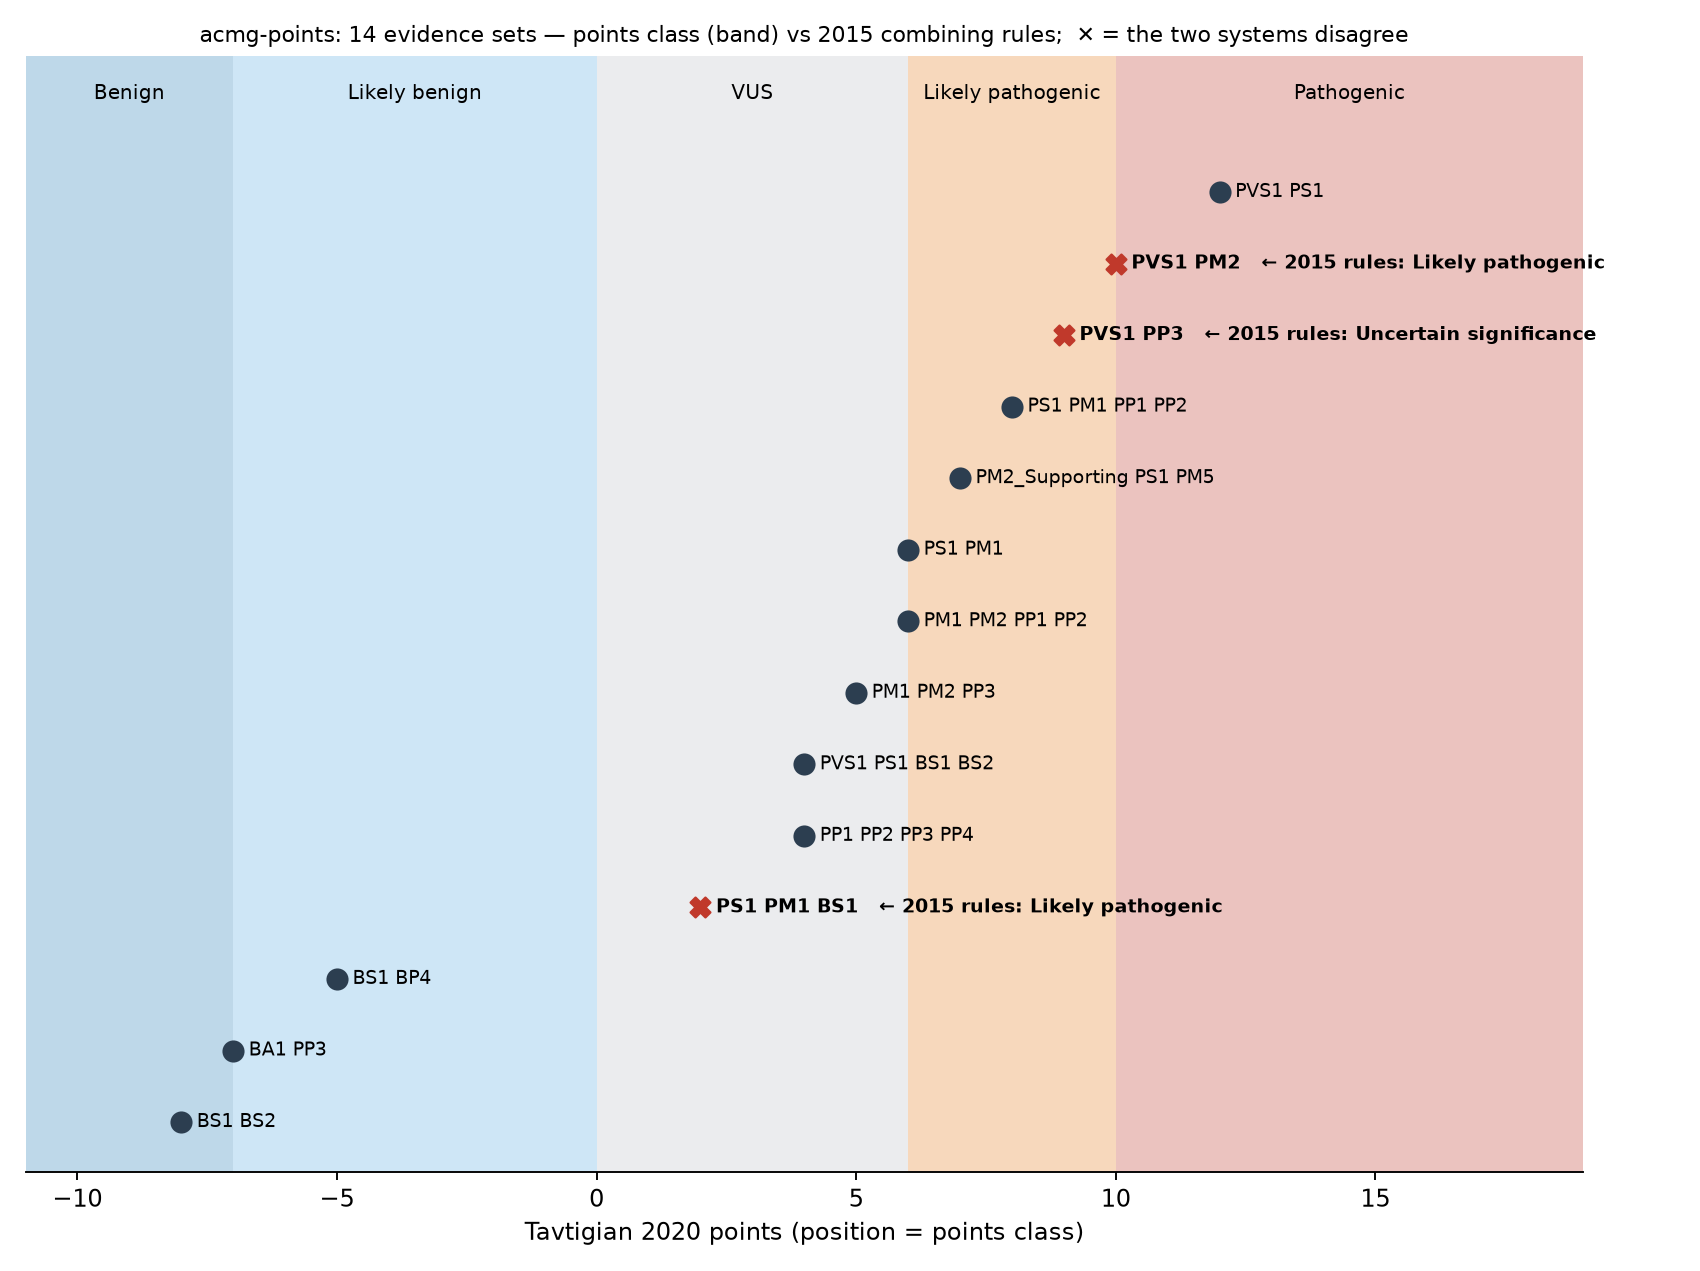
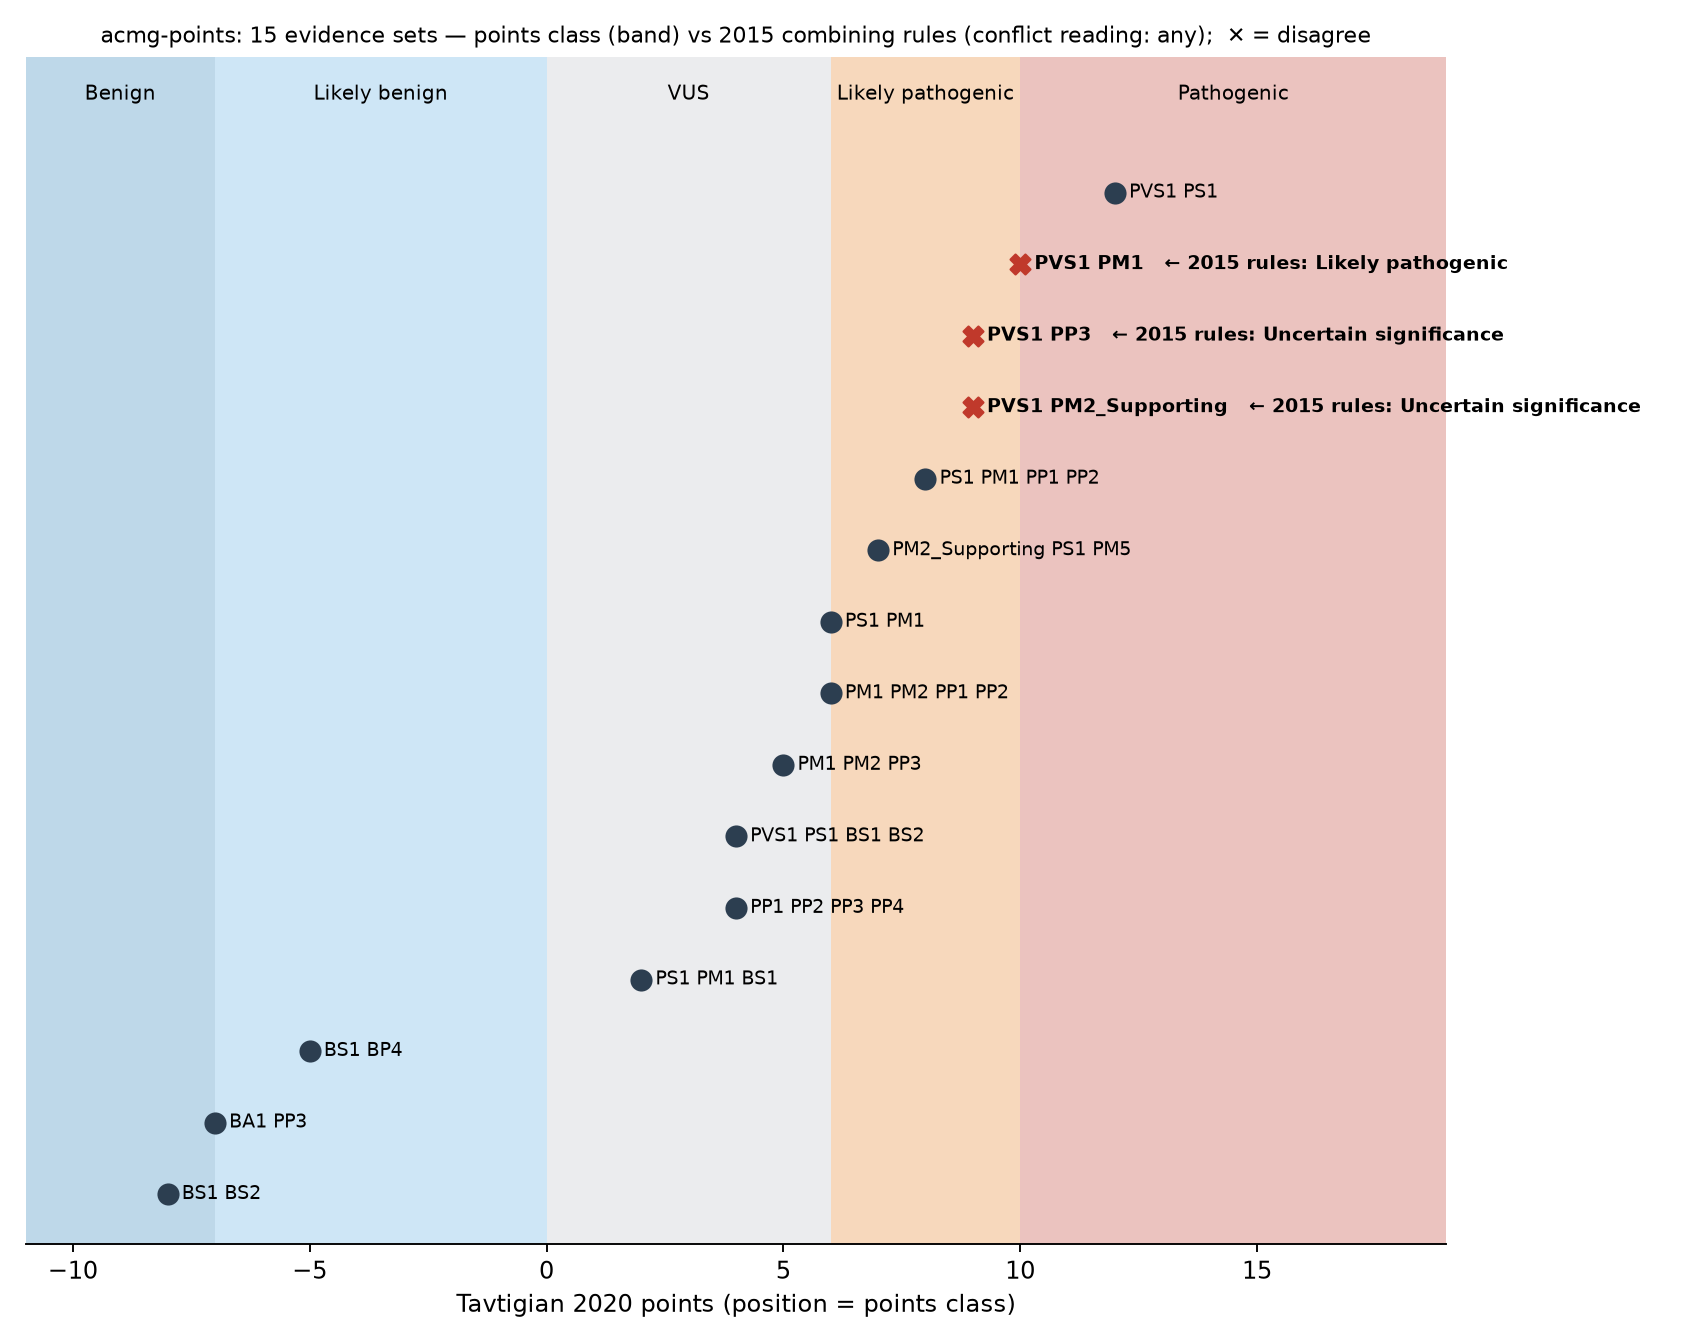
0.1.2: explicit 2015 conflict-rule reading (any | both-met), BA1 stand-alone, Table 5 parameterised tests, PVS1+PM1 as lead example, PM2 at SVI strength; drop .coverage

diff --git a/tests/test_schemes.py b/tests/test_schemes.py
@@ -1,26 +1,54 @@
-from acmg_points.core import classify
+import pytest
+from acmg_points.core import classify, band
+from acmg_points.schemes import rules_2015
 
-def cls(*t): return classify(list(t))
+def cls(*t, conflict="any"): return classify(list(t), conflict)
 
-def test_points_table_and_bands():
-    assert cls("PVS1", "PS1").total == 12 and cls("PVS1", "PS1").points_class == "Pathogenic"
-    assert cls("PM1", "PM2", "PP3").total == 5 and cls("PM1", "PM2", "PP3").points_class == "Uncertain significance"
-    assert cls("BS1", "BP4").total == -5 and cls("BS1", "BP4").points_class == "Likely benign"
-    assert cls("BA1").points_class == "Benign"
+# ---- Richards 2015 Table 5, one case per row (criteria at default strength) ----
+TABLE5 = [
+    (("PVS1", "PS1"), "Pathogenic"), (("PVS1", "PM1", "PM2"), "Pathogenic"), (("PVS1", "PM1", "PP1"), "Pathogenic"), (("PVS1", "PP1", "PP2"), "Pathogenic"),
+    (("PS1", "PS2"), "Pathogenic"), (("PS1", "PM1", "PM2", "PM3"), "Pathogenic"), (("PS1", "PM1", "PM2", "PP1", "PP2"), "Pathogenic"), (("PS1", "PM1", "PP1", "PP2", "PP3", "PP4"), "Pathogenic"),
+    (("PVS1", "PM1"), "Likely pathogenic"), (("PS1", "PM1"), "Likely pathogenic"), (("PS1", "PM1", "PM2"), "Likely pathogenic"), (("PS1", "PP1", "PP2"), "Likely pathogenic"),
+    (("PM1", "PM2", "PM3"), "Likely pathogenic"), (("PM1", "PM2", "PP1", "PP2"), "Likely pathogenic"), (("PM1", "PP1", "PP2", "PP3", "PP4"), "Likely pathogenic"),
+    (("BA1",), "Benign"), (("BS1", "BS2"), "Benign"), (("BS1", "BP1"), "Likely benign"), (("BP1", "BP2"), "Likely benign"),
+    (("PP1",), "Uncertain significance"), (("PM1",), "Uncertain significance"), (("PVS1",), "Uncertain significance"), (("BS1",), "Uncertain significance"), (("BP1",), "Uncertain significance"),
+    (("PS1", "PP1"), "Uncertain significance"), (("PM1", "PM2"), "Uncertain significance"),
+]
 
-def test_2015_rules_agree_on_classic_cases():
-    assert cls("PVS1", "PS1").rules_class == "Pathogenic"
-    assert cls("PS1", "PM1").rules_class == "Likely pathogenic"
-    assert cls("BS1", "BS2").rules_class == "Benign"
+@pytest.mark.parametrize("criteria,expected", TABLE5, ids=[" ".join(c) for c, _ in TABLE5])
+def test_table5_rows(criteria, expected):
+    assert cls(*criteria).rules_class == expected
 
-def test_known_divergence_pvs1_plus_one_pp():
-    r = cls("PVS1", "PP3")            # 2015: needs ≥2 PP → VUS; points: 8+1=9 → LP
-    assert r.points_class == "Likely pathogenic" and r.rules_class == "Uncertain significance" and not r.agree
+# ---- conflict rule, both readings ----
+@pytest.mark.parametrize("criteria,any_mode,both_met_mode", [
+    (("PS1", "PM1", "BS1"), "Uncertain significance", "Likely pathogenic"),   # P rule met, lone BS1: readings differ
+    (("PVS1", "PS1", "BP4"), "Uncertain significance", "Pathogenic"),
+    (("BS1", "BS2", "PP3"), "Uncertain significance", "Benign"),
+    (("BA1", "PP3"), "Benign", "Benign"),                                                     # BA1 is stand-alone: not overridden by Supporting
+    (("PVS1", "PS1", "BS1", "BS2"), "Uncertain significance", "Uncertain significance"),   # both rules met: VUS either way
+    (("PVS1", "PS1"), "Pathogenic", "Pathogenic"),                                          # no benign evidence: no conflict
+])
+def test_conflict_readings(criteria, any_mode, both_met_mode):
+    assert cls(*criteria).rules_class == any_mode and cls(*criteria, conflict="both-met").rules_class == both_met_mode
+    assert cls(*criteria).to_dict()["rules_2015"]["conflict_mode"] == "any"
 
-def test_modified_strength():
-    r = cls("PM2_Supporting", "PS1", "PM5")
-    assert [a.points for a in r.applied] == [1, 4, 2] and r.total == 7 and r.points_class == "Likely pathogenic"
+def test_conflict_mode_validated():
+    with pytest.raises(ValueError): rules_2015({"PVS": 0, "PS": 0, "PM": 0, "PP": 0, "BA": 0, "BS": 0, "BP": 0}, "nope")
 
-def test_conflict_handling_differs():
-    r = cls("PS1", "PM1", "BS1")     # 2015: LP vs (BS1 alone = nothing) → LP ; points: 4+2-4=2 → VUS
-    assert r.points_class == "Uncertain significance" and r.rules_class == "Likely pathogenic" and not r.agree
+# ---- Tavtigian 2020 bands at every boundary ----
+@pytest.mark.parametrize("total,expected", [(-8, "Benign"), (-7, "Benign"), (-6, "Likely benign"), (-1, "Likely benign"), (0, "Uncertain significance"), (5, "Uncertain significance"), (6, "Likely pathogenic"), (9, "Likely pathogenic"), (10, "Pathogenic"), (12, "Pathogenic")])
+def test_tavtigian_boundaries(total, expected):
+    assert band(total) == expected
+
+def test_points_values_and_modifiers():
+    r = cls("PVS1", "PS1"); assert r.total == 12 and r.points_class == "Pathogenic"
+    r = cls("PM2_Supporting", "PS1", "PM5"); assert [a.points for a in r.applied] == [1, 4, 2] and r.total == 7 and r.points_class == "Likely pathogenic"
+    r = cls("PVS1", "PM2_Supporting"); assert r.total == 9 and r.points_class == "Likely pathogenic" and r.rules_class == "Uncertain significance"   # SVI 2020: PM2 Supporting; 2015 needs ≥2 Supporting
+    assert cls("BA1").total == -8 and cls("BA1").points_class == "Benign"
+    with pytest.raises(ValueError): cls("PVS1", "PVS1")
+
+# ---- the divergences shown in the README ----
+def test_readme_divergences():
+    r = cls("PVS1", "PM1"); assert (r.total, r.points_class, r.rules_class) == (10, "Pathogenic", "Likely pathogenic") and not r.agree
+    r = cls("PVS1", "PP3"); assert (r.total, r.points_class, r.rules_class) == (9, "Likely pathogenic", "Uncertain significance") and not r.agree
+    r = cls("PS1", "PM1", "BS1"); assert (r.total, r.points_class, r.rules_class) == (2, "Uncertain significance", "Uncertain significance") and r.agree

diff --git a/src/acmg_points/schemes.py b/src/acmg_points/schemes.py
@@ -40,9 +40,21 @@ CRITERIA = {
 }
 
 
-def rules_2015(counts: dict[str, int]) -> tuple[str, str]:
+CONFLICT_MODES = ("any", "both-met")
+
+
+def rules_2015(counts: dict[str, int], conflict: str = "any") -> tuple[str, str]:
     """Richards 2015 Table 5. `counts` keys: PVS, PS, PM, PP, BA, BS, BP
-    (criteria counted at their *applied* strength, per ClinGen SVI practice)."""
+    (criteria counted at their *applied* strength, per ClinGen SVI practice).
+
+    `conflict` — how to read Richards 2015's rule that a variant is of uncertain significance when
+    "the criteria for benign and pathogenic are contradictory":
+      "any"      (default) any pathogenic evidence together with any benign evidence → Uncertain significance,
+                 even if only one side reaches a classification on its own;
+      "both-met" only when a pathogenic rule AND a benign rule are both met (the reading some
+                 implementations use).
+    The two readings differ exactly on sets like PS1 + PM1 + BS1; the report says which one was used."""
+    if conflict not in CONFLICT_MODES: raise ValueError(f"conflict must be one of {CONFLICT_MODES}")
     pvs, ps, pm, pp = counts["PVS"], counts["PS"], counts["PM"], counts["PP"]
     ba, bs, bp = counts["BA"], counts["BS"], counts["BP"]
 
@@ -60,8 +72,13 @@ def rules_2015(counts: dict[str, int]) -> tuple[str, str]:
 
     p_side = "Pathogenic" if path else ("Likely pathogenic" if likely_path else None)
     b_side = "Benign" if benign else ("Likely benign" if likely_benign else None)
+    any_p = (pvs + ps + pm + pp) > 0; any_b = (ba + bs + bp) > 0
     if p_side and b_side:
         return "Uncertain significance", f"conflicting: rules give {p_side} and {b_side} → VUS by the 2015 conflict rule"
+    if ba >= 1 and conflict == "any" and not p_side:
+        return "Benign", "BA1 is stand-alone evidence (Richards 2015): Benign regardless of supporting pathogenic evidence"
+    if conflict == "any" and any_p and any_b:
+        return "Uncertain significance", f"pathogenic and benign evidence both applied → VUS (Richards 2015: 'criteria for benign and pathogenic are contradictory'; rule side alone would give {p_side or b_side or 'VUS'})"
     if p_side:
         return p_side, "2015 combining rule met"
     if b_side:

diff --git a/src/acmg_points/cli.py b/src/acmg_points/cli.py
@@ -22,7 +22,7 @@ def render(r) -> str:
 
 
 def cmd_classify(a):
-    r = classify(a.criteria)
+    r = classify(a.criteria, a.conflict)
     print(json.dumps(r.to_dict(), indent=2) if a.json else render(r))
     sys.exit(0)
 
@@ -40,7 +40,7 @@ def cmd_compare(a):
         s = line.split("#", 1)[0].strip()
         if not s:
             continue
-        r = classify(s.split())
+        r = classify(s.split(), a.conflict)
         dis += 0 if r.agree else 1
         rows.append((s, r))
     print("| criteria | points | points class | 2015 class | agree |")
@@ -54,9 +54,9 @@ def main(argv=None):
     p = argparse.ArgumentParser(prog="acmg-points", description="Points-based ACMG/AMP classification next to the 2015 rules.")
     p.add_argument("--version", action="version", version=__version__)
     s = p.add_subparsers(dest="cmd", required=True)
-    c = s.add_parser("classify", help="classify a set of applied criteria"); c.add_argument("criteria", nargs="+"); c.add_argument("--json", action="store_true"); c.set_defaults(fn=cmd_classify)
+    c = s.add_parser("classify", help="classify a set of applied criteria"); c.add_argument("criteria", nargs="+"); c.add_argument("--json", action="store_true"); c.add_argument("--conflict", choices=("any", "both-met"), default="any", help="2015 conflict rule reading (default any: any P + any B evidence → VUS)"); c.set_defaults(fn=cmd_classify)
     t = s.add_parser("table", help="print the points scheme"); t.set_defaults(fn=cmd_table)
-    m = s.add_parser("compare", help="batch: one criteria set per line → table of both schemes"); m.add_argument("--file", required=True); m.set_defaults(fn=cmd_compare)
+    m = s.add_parser("compare", help="batch: one criteria set per line → table of both schemes"); m.add_argument("--file", required=True); m.add_argument("--conflict", choices=("any", "both-met"), default="any"); m.set_defaults(fn=cmd_compare)
     a = p.parse_args(argv)
     try:
         a.fn(a)

diff --git a/src/acmg_points/core.py b/src/acmg_points/core.py
@@ -65,6 +65,7 @@ class Result:
     rules_class: str
     rules_reason: str
     counts: dict[str, int] = field(default_factory=dict)
+    conflict_mode: str = "any"
 
     @property
     def agree(self) -> bool:
@@ -74,12 +75,12 @@ class Result:
         return {
             "applied": [a.__dict__ | {"modified": a.modified} for a in self.applied],
             "points": {"scheme": POINTS["name"], "total": self.total, "class": self.points_class},
-            "rules_2015": {"class": self.rules_class, "reason": self.rules_reason, "counts": self.counts},
+            "rules_2015": {"class": self.rules_class, "reason": self.rules_reason, "counts": self.counts, "conflict_mode": self.conflict_mode},
             "agree": self.agree,
         }
 
 
-def classify(tokens: list[str]) -> Result:
+def classify(tokens: list[str], conflict: str = "any") -> Result:
     items = [parse(t) for t in tokens]
     seen = set()
     for a in items:
@@ -88,5 +89,5 @@ def classify(tokens: list[str]) -> Result:
         seen.add(a.code)
     total = sum(a.points for a in items)
     counts = counts_at_applied_strength(items)
-    rcls, rreason = rules_2015(counts)
-    return Result(items, total, band(total), rcls, rreason, counts)
+    rcls, rreason = rules_2015(counts, conflict)
+    r = Result(items, total, band(total), rcls, rreason, counts); r.conflict_mode = conflict; return r

diff --git a/tests/test_cli.py b/tests/test_cli.py
@@ -19,7 +19,7 @@ def test_classify_text_and_json(capsys):
 
 
 def test_compare_and_table(capsys, tmp_path):
-    f = tmp_path / "c.txt"; f.write_text("# comment\nPVS1 PS1\n\nPS1 PM1 BS1  # conflict\n")
+    f = tmp_path / "c.txt"; f.write_text("# comment\nPVS1 PS1\n\nPVS1 PP3  # conflict\n")
     try:
         cli.main(["compare", "--file", str(f)])
     except SystemExit as e:

diff --git a/README.md b/README.md
@@ -13,31 +13,40 @@ ClinGen is moving variant classification from the 2015 combining rules to a poin
 
 ```bash
 pip install git+https://github.com/MargoSolo/acmg-points      # no dependencies
-acmg-points classify PVS1 PP3
+acmg-points classify PVS1 PM1
 ```
 ```
   PVS1  VeryStrong  +8
-  PP3   Supporting  +1
-  total             +9  → Likely pathogenic   [tavtigian2020]
-  2015 rules        → Uncertain significance   (no 2015 combining rule met)
+  PM1   Moderate    +2
+  total             +10 → Pathogenic          [tavtigian2020]
+  2015 rules        → Likely pathogenic       (2015 combining rule met)
   ⚠ SCHEMES DISAGREE
 ```
 
 ## Where the systems disagree
 
-Fourteen evidence sets from `examples/cases.txt`, placed on the points scale; the band gives the points class, and ✕ marks the sets where the 2015 rules say something else:
+Fifteen evidence sets from `examples/cases.txt`, placed on the points scale; the band gives the points class, and ✕ marks the sets where the 2015 rules say something else:
 
 ![points vs 2015 rules](docs/points-vs-2015.png)
 
-Three patterns worth knowing before a lab switches systems:
-
 | evidence | points | points class | 2015 class | why |
 |---|---|---|---|---|
-| PVS1 + PM2 | +10 | **Pathogenic** | Likely pathogenic | 2015 needs PVS1 + ≥ 2 Moderate for Pathogenic; points reach 10 with one |
-| PVS1 + PP3 | +9 | **Likely pathogenic** | VUS | 2015 needs ≥ 2 Supporting next to PVS1; points need one |
-| PS1 + PM1 + BS1 | +2 | **VUS** | Likely pathogenic | a lone benign Strong is invisible to the 2015 pathogenic rules; points subtract 4 |
+| PVS1 + PM1 (one Moderate) | +10 | **Pathogenic** | Likely pathogenic | 2015 needs PVS1 + ≥ 2 Moderate for Pathogenic; points reach 10 with one |
+| PVS1 + PP3 (one Supporting) | +9 | **Likely pathogenic** | VUS | 2015 needs ≥ 2 Supporting next to PVS1; points need one |
+| PVS1 + PM2_Supporting | +9 | **Likely pathogenic** | VUS | the same pattern with PM2 at the strength ClinGen SVI recommends since 2020 |
 
-Points resolve conflicting evidence by arithmetic; the 2015 rules only fall back to VUS when *both* a pathogenic and a benign rule are met. Full table: [`examples/compare.md`](examples/compare.md).
+Full table: [`examples/compare.md`](examples/compare.md).
+
+**Conflicting evidence.** Richards 2015 puts a variant in *Uncertain significance* when "the criteria for benign and pathogenic are contradictory". That sentence has two readings, and implementations differ. `acmg-points` defaults to the stricter one and lets you switch:
+
+| `--conflict` | reading | PS1 + PM1 + BS1 |
+|---|---|---|
+| `any` (default) | any pathogenic evidence together with any benign evidence → VUS | VUS (points: +2, VUS too) |
+| `both-met` | VUS only when a pathogenic rule *and* a benign rule are both met | Likely pathogenic |
+
+BA1 is stand-alone benign evidence under both readings and is not overridden by supporting pathogenic criteria. The JSON output records which reading was used.
+
+**PM2.** The 2015 default is Moderate; ClinGen SVI recommended PM2 at Supporting strength in 2020. Apply it as `PM2_Supporting` — the package does not silently downgrade it, because the strength is your decision.
 
 ## Use
 

diff --git a/examples/compare.md b/examples/compare.md
@@ -1,13 +1,14 @@
 | criteria | points | points class | 2015 class | agree |
 |---|---|---|---|---|
 | PVS1 PS1 | +12 | Pathogenic | Pathogenic | ✅ |
-| PVS1 PM2 | +10 | Pathogenic | Likely pathogenic | ⚠ |
+| PVS1 PM1 | +10 | Pathogenic | Likely pathogenic | ⚠ |
 | PVS1 PP3 | +9 | Likely pathogenic | Uncertain significance | ⚠ |
+| PVS1 PM2_Supporting | +9 | Likely pathogenic | Uncertain significance | ⚠ |
 | PS1 PM1 | +6 | Likely pathogenic | Likely pathogenic | ✅ |
 | PS1 PM1 PP1 PP2 | +8 | Likely pathogenic | Likely pathogenic | ✅ |
 | PM1 PM2 PP3 | +5 | Uncertain significance | Uncertain significance | ✅ |
 | PM2_Supporting PS1 PM5 | +7 | Likely pathogenic | Likely pathogenic | ✅ |
-| PS1 PM1 BS1 | +2 | Uncertain significance | Likely pathogenic | ⚠ |
+| PS1 PM1 BS1 | +2 | Uncertain significance | Uncertain significance | ✅ |
 | PVS1 PS1 BS1 BS2 | +4 | Uncertain significance | Uncertain significance | ✅ |
 | BS1 BP4 | -5 | Likely benign | Likely benign | ✅ |
 | BS1 BS2 | -8 | Benign | Benign | ✅ |
@@ -15,4 +16,4 @@
 | PP1 PP2 PP3 PP4 | +4 | Uncertain significance | Uncertain significance | ✅ |
 | PM1 PM2 PP1 PP2 | +6 | Likely pathogenic | Likely pathogenic | ✅ |
 
-14 cases, 3 disagreements
+15 cases, 3 disagreements

diff --git a/CHANGELOG.md b/CHANGELOG.md
@@ -1,5 +1,9 @@
 # Changelog
 
+## 0.1.2 (2026-09-03)
+
+2015 conflict rule made explicit: `--conflict any` (default; any pathogenic + any benign evidence → VUS, per Richards 2015 'criteria for benign and pathogenic are contradictory') or `--conflict both-met` (VUS only when a pathogenic and a benign rule are both met); BA1 remains stand-alone under both. Consequence: PS1 + PM1 + BS1 is now VUS under 2015 by default (was Likely pathogenic). Parameterised tests for every Richards Table 5 row, both conflict readings and all Tavtigian band boundaries (48 tests). Examples lead with PVS1 + PM1; PM2 shown at SVI-2020 Supporting strength. `.coverage` removed from the repository.
+
 ## 0.1.1 (2026-09-03)
 
 Public release: PyPI package, Zenodo archiving, PyPI metadata, trusted-publishing workflow, author ORCID. No functional changes.
